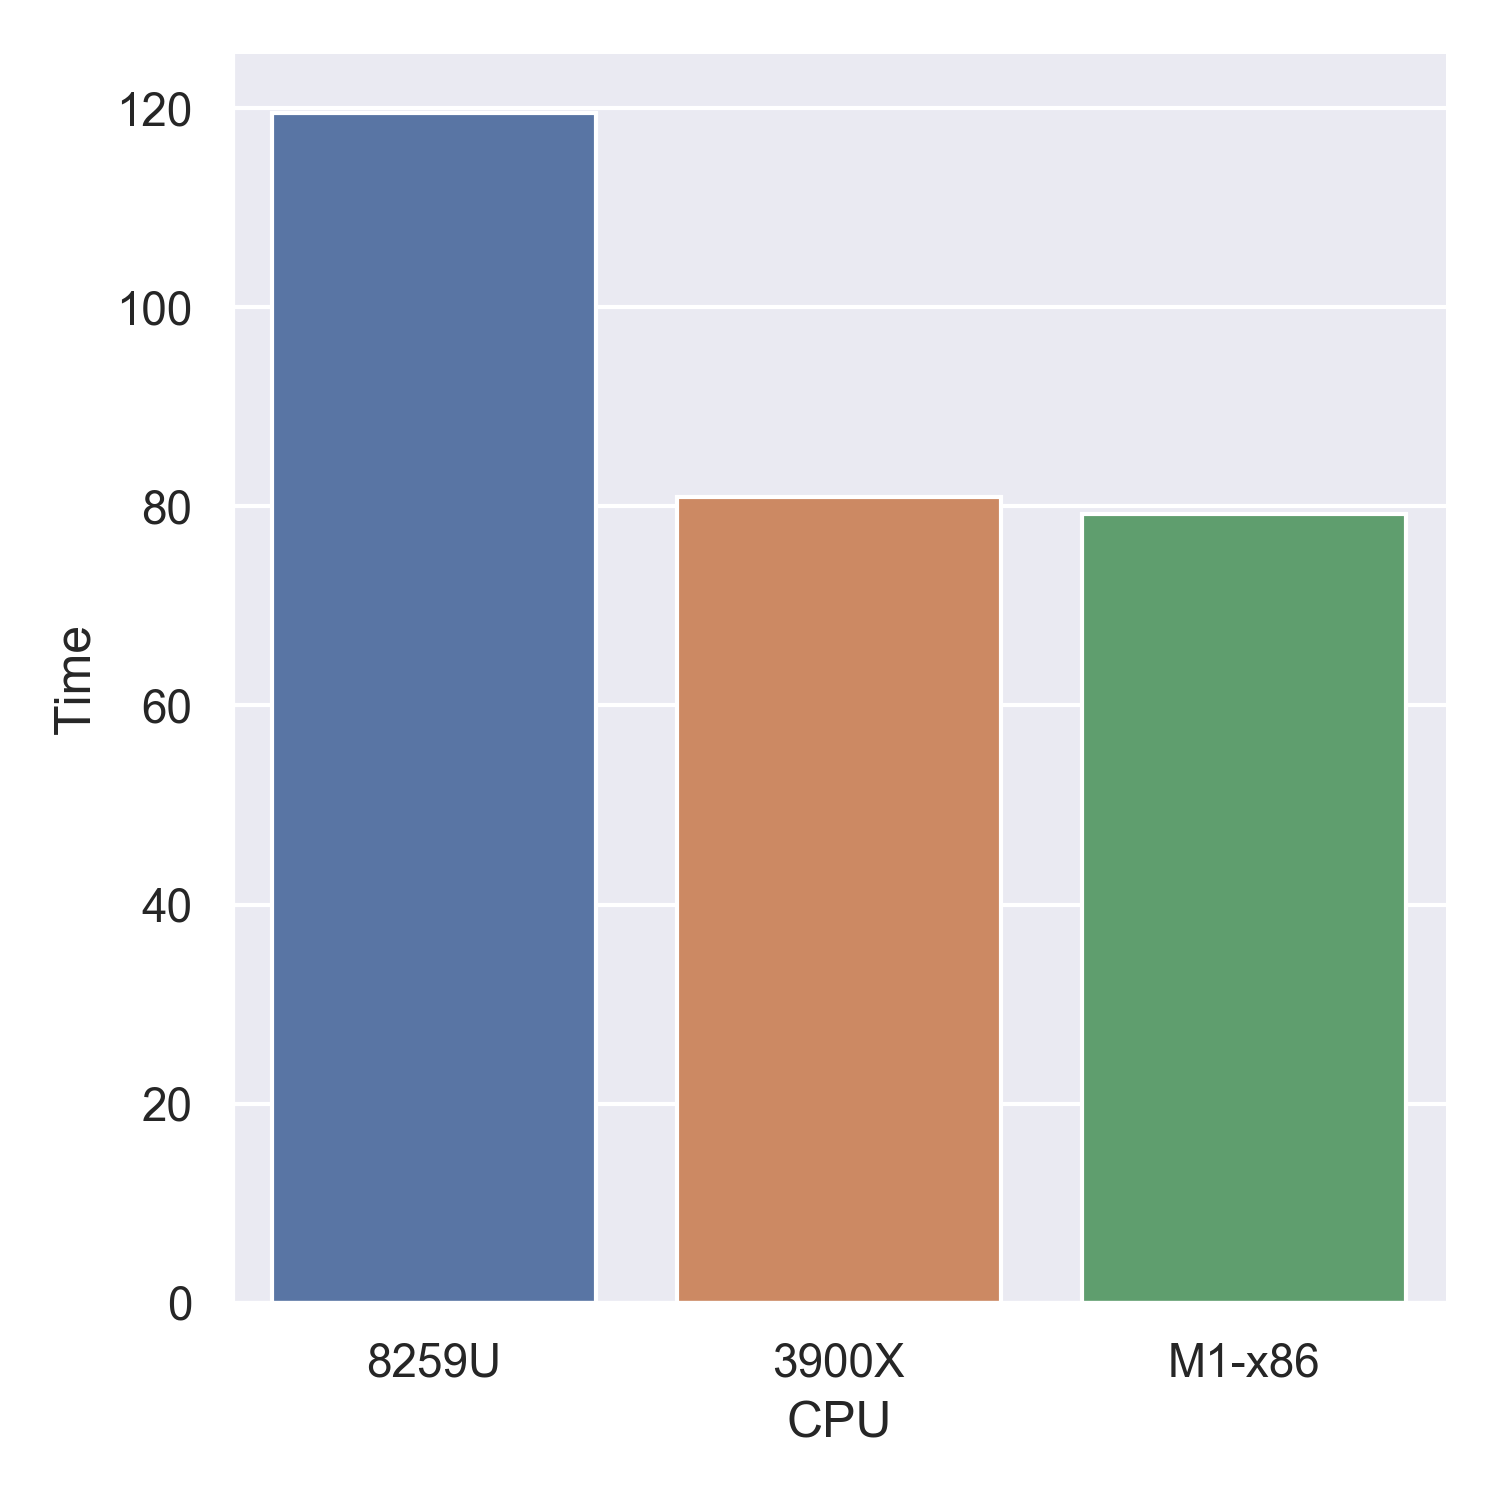
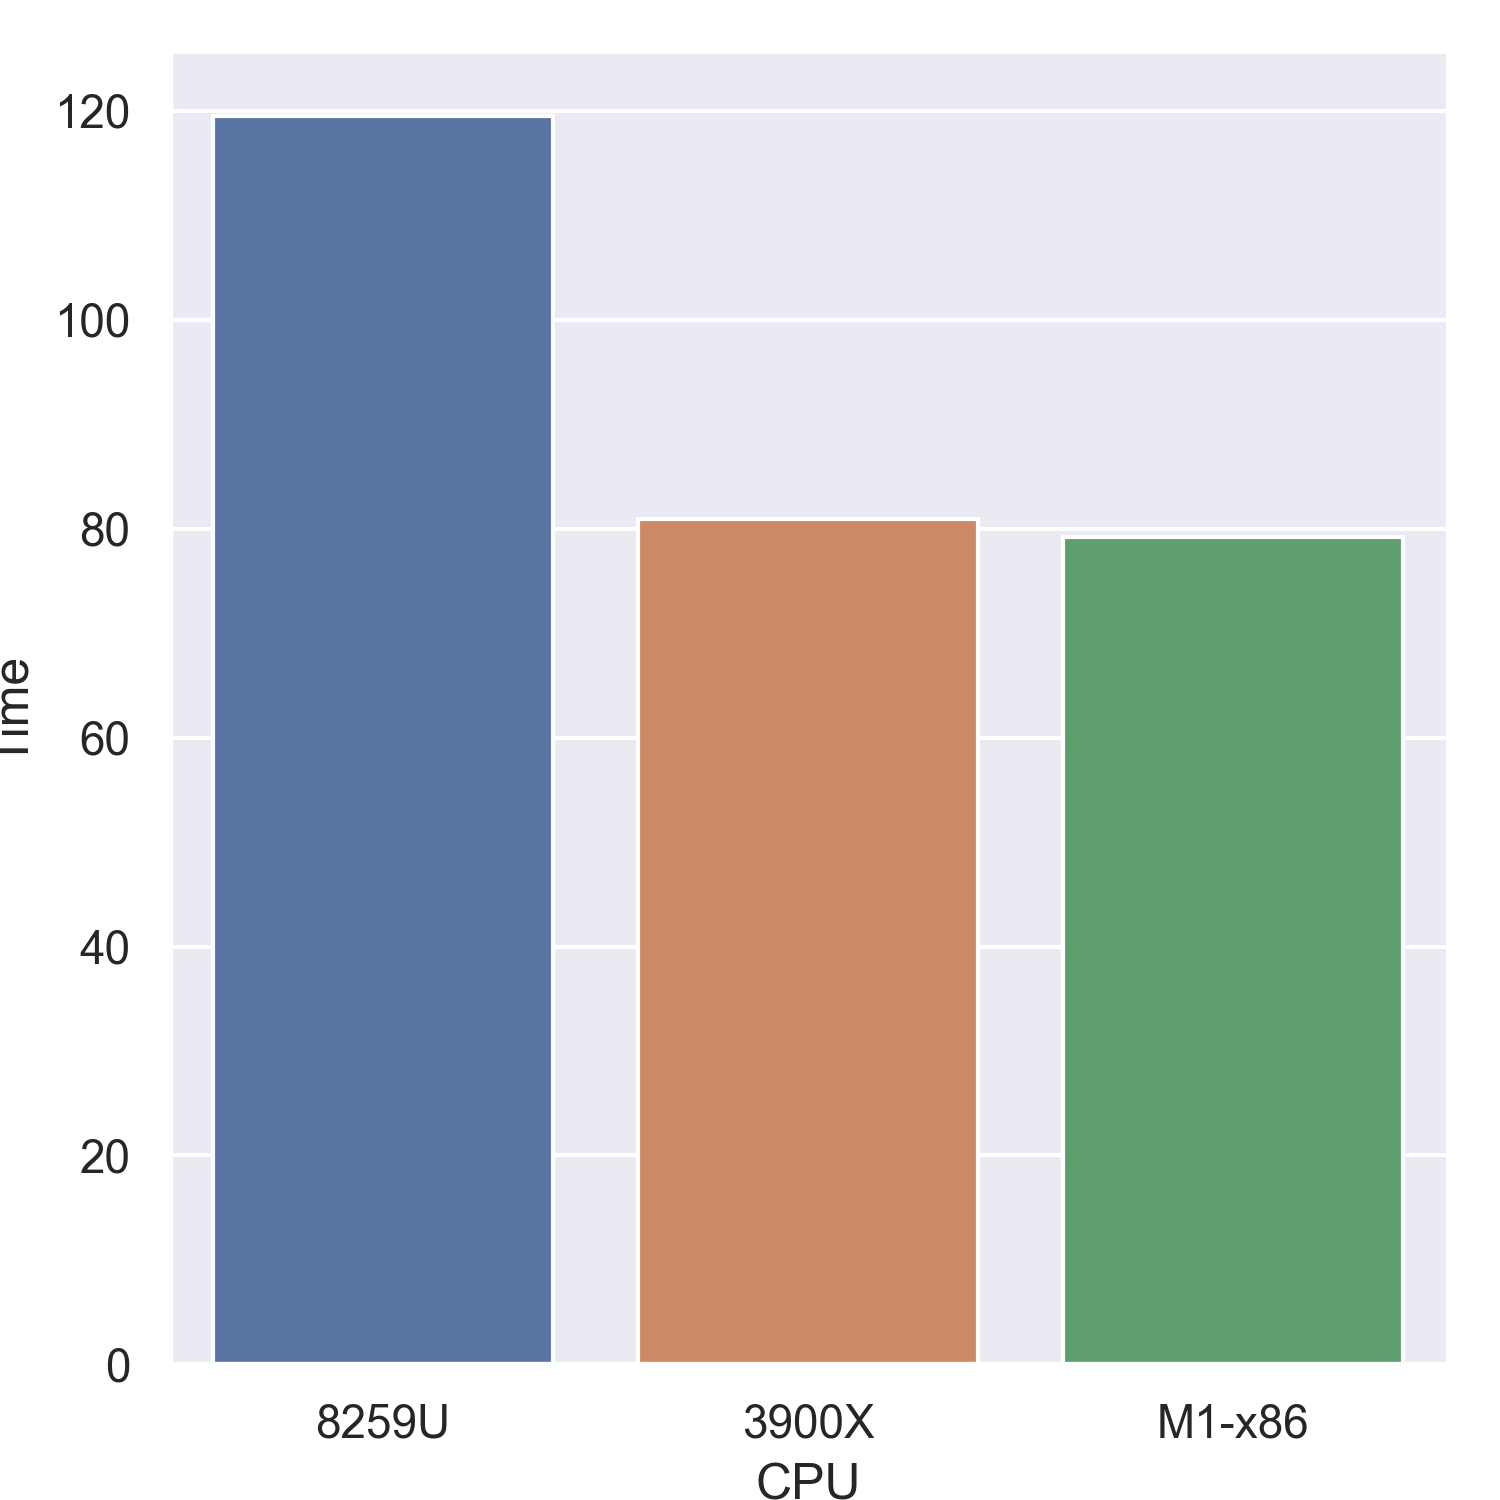
NiBabel

diff --git a/nibabel_graph.py b/nibabel_graph.py
@@ -1,0 +1,19 @@
+#!/usr/bin/env python3
+# -*- coding: utf-8 -*-
+
+#plot geometric mean for 
+# load/init/minmax/rgba processing of DigiMorph Desert Iguana
+
+import pandas as pd
+import seaborn as sns
+import matplotlib.pyplot as plt
+#MacBook i5-8259U
+#Ubuntu i7-8700K
+#Ubuntu 3900X
+df = pd.DataFrame({'CPU': ['8259U','3900X','M1-x86'],
+					'Time': [11.614, 6.010, 6.68]})
+
+
+sns.set()
+sns.catplot(x="CPU", y="Time", kind="bar", data=df)
+plt.savefig('nibabel.png', dpi=300)

diff --git a/README.md b/README.md
@@ -67,6 +67,14 @@ The graph shows the geometric mean for four computations (de-meaning, temporal f
  
 ![fslmaths](fslmaths.png)
 
+## NiBabel
+
+[NiBabel](https://nipy.org/nibabel/) is a collection of neuroimaging related Python scripts and utilities. It provides [benchmarks](https://nipy.org/nibabel/reference/nibabel.benchmarks.html) for performance and regression testing. While both Python 2.7 and 3 are provided with M1 computers, core Python libraries like numpy and scipy are not yet available as natively compiled code. For these tests, [miniconda](https://docs.conda.io/en/latest/miniconda.html) was installed, and the miniconda `pip` program was used to install x86-64 libraries (numpy, nibabel, pandas, seaborn). Rosetta2 seamlessly translated the x86-64 code the first time the libraries were launched. While native performance will surely be better, here we test the available translations.
+
+The graph shows the geometric mean for the benchmarks with lower values indicating faster performance.
+ 
+![nibabel](nibabel.png)
+
 ## SPM
 
 [SPM12](https://www.fil.ion.ucl.ac.uk/spm/software/spm12/) is one of the dominant tools used for brain imaging. It uses Matlab along with compiled C code (mex files), both of which must currently be translated. In addition, the macOS is wary of the downloaded mex files, which look like malware. Therefore, users must [explicitly provide permission for these to be executed](https://transang.me/macos-open-file-from-unidentified-developers/) with a command like `xattr -dr com.apple.quarantine *.mexmaci64`. To evaluate the performance of SPM, I installed the [Clinical Toolbox](https://github.com/neurolabusc/Clinical) and timed the processing of the included tutorial dataset (`tic; clinical_mrnorm('T1.nii','lesionT2.nii','T2.nii'); toc`). Lower values indicate faster performance.
@@ -83,7 +91,8 @@ The first test examines the CPU performance, looking at the loading, scaling and
 
 ![mricrogl](mricrogl.png)
 
-The second test examines the GPU compute performance, looking at generation of the intensity [gradients](https://www.mccauslandcenter.sc.edu/mricrogl/gradients).
+The second test examines the GPU compute performance, looking at generation of the intensity [gradients](https://www.mccauslandcenter.sc.edu/mricrogl/gradients). While many have been critical of Intel integrated graphics, the i5-8259u includes the [Iris Plus Graphics 655](https://en.wikipedia.org/wiki/Intel_Graphics_Technology) with 128 MB eDRAM and 48 execution units (whereas most contemporary Intel GPUs had no eDRAM and half the number of execution units). The 8700K and 3900X both use the powerful 250w NVidia GTX 1080 Ti. In this light, the combination of the Metal compute language and the M1 GPU provides compelling performance.
+
 
 ![mricrogl](mricrogl_gpu.png)
 
